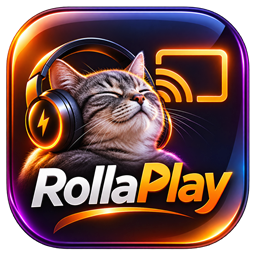
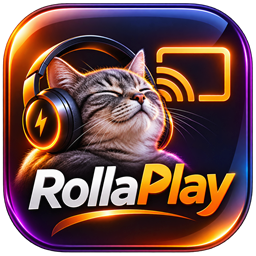
chore: prepare signed 0.3.3 release with full-size mark and per-machine NSIS

diff --git a/src/App.tsx b/src/App.tsx
@@ -123,7 +123,7 @@ function Sidebar({
       <button className="sidebar-collapse" onClick={onToggle} title={collapsed ? 'Expand sidebar' : 'Collapse sidebar'} aria-label={collapsed ? 'Expand sidebar' : 'Collapse sidebar'} aria-expanded={!collapsed}>
         {collapsed ? <ChevronsRight size={18} /> : <><ChevronsLeft size={18} /><span>Collapse</span></>}
       </button>
-      <div className="profile-row"><span className="profile-avatar"><BrandMark size={20} /></span><div><strong>RollaPlay Station</strong><span>Local device</span></div></div>
+      <div className="profile-row"><span className="profile-avatar"><BrandMark size={32} /></span><div><strong>RollaPlay Station</strong><span>Local device</span></div></div>
     </aside>
   )
 }
@@ -470,7 +470,7 @@ function AboutDialog({
         <button className="dialog-close" onClick={onClose} aria-label="Close about">×</button>
         <div className="setup-eyebrow"><BrandMark size={16} /> ABOUT THIS APP</div>
         <div className="about-brand">
-          <span className="about-mark"><BrandMark size={38} title /></span>
+          <span className="about-mark"><BrandMark size={54} title /></span>
           <div><h2 id="about-title">{info.name}</h2><p>Local media, loud attitude.</p></div>
         </div>
         <p className="about-lede">RollaPlay keeps your video library on this PC and streams original files straight to your TV. No account, no uploads, no subscriptions.</p>

diff --git a/src/redesign.css b/src/redesign.css
@@ -109,6 +109,7 @@ summary:focus-visible {
   display: inline-grid;
   place-items: center;
   flex: 0 0 auto;
+  overflow: hidden;
   border-radius: 9px;
   background: var(--red);
   color: var(--text);
@@ -117,8 +118,8 @@ summary:focus-visible {
 
 .rolla-mark img {
   display: block;
-  width: 82%;
-  height: 82%;
+  width: 100%;
+  height: 100%;
   object-fit: contain;
 }
 
@@ -169,8 +170,8 @@ summary:focus-visible {
 }
 
 .brand .brand-mark img {
-  width: 82%;
-  height: 82%;
+  width: 100%;
+  height: 100%;
 }
 
 .brand-name {
@@ -3156,8 +3157,8 @@ summary:focus-visible {
 }
 
 .about-mark img {
-  width: 82%;
-  height: 82%;
+  width: 100%;
+  height: 100%;
 }
 
 .about-brand p {

diff --git a/src/version.ts b/src/version.ts
@@ -1,1 +1,1 @@
-export const APP_VERSION = '0.3.2'
+export const APP_VERSION = '0.3.3'

diff --git a/docs/release-0.3.2.md b/docs/release-0.3.2.md
@@ -14,9 +14,9 @@ All five version declarations were verified against the tag: `package.json`, `sr
 
 ### Icon and in-app brand mark redeploy
 
-The Windows app/installer icon and the in-app `BrandMark` (sidebar, profile, About and setup) now use the user-provided Rolla cat-headphones artwork. `pnpm tauri icon` generated the Windows icon set in `src-tauri/icons/` (`32x32.png`, `128x128.png`, `128x128@2x.png`, `icon.ico` with 16/24/32/48/64/256 entries, plus `icon.png` and `icon-1024.png`); non-Windows targets generated by the CLI were removed. `src-tauri/tauri.conf.json` already referenced those filenames, so no config change was needed and future releases inherit the icon automatically. The UI mark uses an optimized 256×256 transparent PNG at `public/rolla-mark.png`, rendered inside the existing red `.rolla-mark` tile; `src/ui.tsx` and the three `img` sizing rules in `src/redesign.css` replaced the inline `R` SVG.
+The Windows app/installer icon and the in-app `BrandMark` (sidebar, profile, About and setup) now use the user-provided Rolla cat-headphones artwork. `pnpm tauri icon` generated the Windows icon set in `src-tauri/icons/` (`32x32.png`, `128x128.png`, `128x128@2x.png`, `icon.ico` with 16/24/32/48/64/256 entries, plus `icon.png` and `icon-1024.png`); non-Windows targets generated by the CLI were removed. `src-tauri/tauri.conf.json` already referenced those filenames, so no config change was needed and future releases inherit the icon automatically. The UI mark used an optimized 256×256 transparent PNG at `public/rolla-mark.png`, rendered at 82% inside the existing red `.rolla-mark` tile; `src/ui.tsx` and the three `img` sizing rules in `src/redesign.css` replaced the inline `R` SVG. The installed executable was checked with `ExtractAssociatedIcon`: its 32×32 icon matches the new `icon.ico`, not the previous `R` artwork.
 
-Because every 0.3.2 asset still had zero downloads, the version was **not** bumped. The installers were rebuilt locally with `pnpm tauri build --ci` using the existing signing key and uploaded with `--clobber` at 2026-11-25T10:50Z. `latest.json` was regenerated from those local signed artifacts, keeping the original `pub_date` and release notes. Downloaded copies from GitHub were hash-verified against the local artifacts; the manifest signatures match the uploaded `.sig` files.
+Because every 0.3.2 asset still had zero downloads at the time, the version was **not** bumped. The installers were rebuilt locally with `pnpm tauri build --ci` using the existing signing key and uploaded with `--clobber` at 2026-11-25T10:50Z. `latest.json` was regenerated from those local signed artifacts, keeping the original `pub_date` and release notes. Downloaded copies from GitHub were hash-verified against the local artifacts; the manifest signatures match the uploaded `.sig` files. Later refinements (full-tile mark and per-machine NSIS) were moved to 0.3.3 because 0.3.2 had started receiving downloads and must not be overwritten.
 
 ## Manifest check
 

diff --git a/CHANGELOG.md b/CHANGELOG.md
@@ -17,6 +17,17 @@ All notable changes to RollaPlay are documented here. The format follows [Keep a
 - The Windows app and installer icon now uses the Rolla cat-headphones artwork. The 0.3.2 assets were rebuilt and re-signed in place because the first publication had zero downloads.
 - The in-app `BrandMark` (sidebar, About, setup and profile) now uses the same cat-headphones artwork instead of the inline `R` SVG, so the app mark and the Windows icon match.
 
+## [0.3.3] - 2026-11-25
+
+### Changed
+
+- The in-app `BrandMark` artwork is tightly cropped and fills its red tile instead of floating inside it. The About and profile instances were enlarged to match their containers.
+- NSIS now defaults to a per-machine install under `C:\Program Files\RollaPlay` instead of the Tauri default per-user path under `%LOCALAPPDATA%`. This requires administrator approval and does **not** migrate an existing per-user install: uninstall the old copy before installing this one. The MSI already installs per-machine.
+
+### Notes
+
+- Version 0.3.3 is a fresh release, not an overwrite of 0.3.2: 0.3.2 had already been downloaded when these changes were finalized.
+
 ## [0.3.1] - 2026-11-24
 
 ### Fixed
